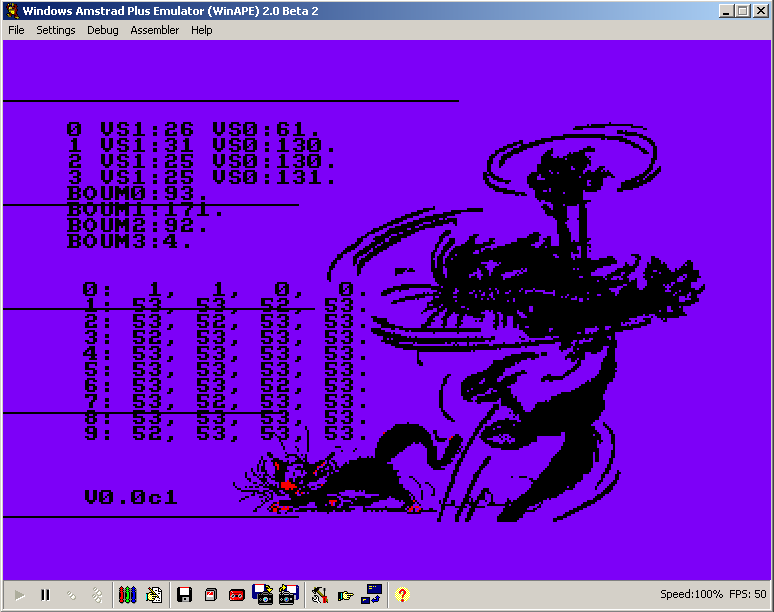
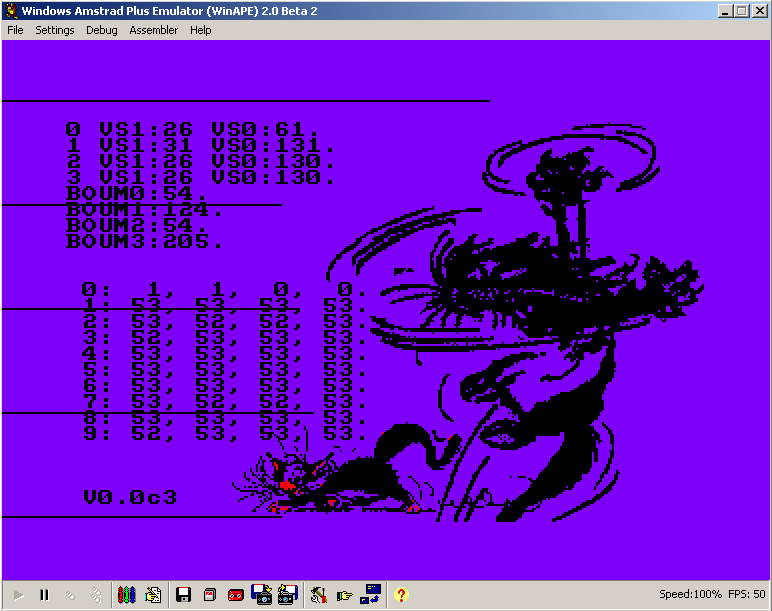
precision vsync()

diff --git a/JDVPA#6_test/moustache.c b/JDVPA#6_test/moustache.c
@@ -130,6 +130,7 @@ void test_vsync() {
 	nb_vsync1[3]=0;
 	nb_vsync0[3]=0;
 	nb_vsync0_boum[3]=0;
+	while (get_vsync()==1) {}
 	vsync();
 //;moustache.c:94: while (get_vsync()==1) {
 //;5	20T		call nn			call	_get_vsync
@@ -202,6 +203,7 @@ void test_vsync() {
 //;3	12T	jr e			jr	00156$
 //donc : 20-19NOPs	76us-72us
 	nb_vsync0[0]=nb_vsync0[0]-1-2;
+	while (get_vsync()==1) {}
 	vsync();
 	for (j=0;j<nb_vsync1[0];j++) {
 		// 40 NOPs FIXME set_hsyncMinus1() à chronométrer aussi par là.
@@ -566,12 +568,14 @@ void test_int() {
 	//si INT nb>10, stopper.
 	no_int=0;
 	count_int[0]=0;
+	while (get_vsync()==1) {}
 	vsync();
 	handle_raster(callback_roulette);
 	raster();
 	while (no_int<10) {
 		count_int[no_int]++;
 	}
+	while (get_vsync()==1) {}
 	vsync();
 	no_int=10;
 	handle_raster(callback_rouletteNOP);
@@ -579,6 +583,7 @@ void test_int() {
 	while (no_int<20) {
 		count_int[no_int]++;
 	}
+	while (get_vsync()==1) {}
 	vsync();
 	no_int=20;
 	handle_raster(callback_rouletteNOPNOP);
@@ -586,6 +591,7 @@ void test_int() {
 	while (no_int<30) {
 		count_int[no_int]++;
 	}
+	while (get_vsync()==1) {}
 	vsync();
 	no_int=30;
 	handle_raster(callback_rouletteNOPNOPNOP);
@@ -593,6 +599,7 @@ void test_int() {
 	while (no_int<40) {
 		count_int[no_int]++;
 	}
+	while (get_vsync()==1) {}
 	vsync();
 	printf("            \r\n");
 	printf("            \r\n");
@@ -652,6 +659,7 @@ void test_palette() {
 	bank0123();
 	put_frame_transparent((unsigned char *)(0xC000 + vram[148]+20),40,48,0x7800);
 	//3) raster palette
+	while (get_vsync()==1) {}
 	vsync();
 	handle_raster(callback_roulette2);
 	raster();
@@ -668,7 +676,7 @@ void main() {
 	LoadFile("chat3.scr", (char *)0x7800);
 	test_vsync();
 	test_int();
-	printf("\r\n\r\n\r\n V0.0c2");
+	printf("\r\n\r\n\r\n V0.0c3");
 	test_palette();
 	while(1) {} // keyboard scan does perturbate raster palette, so no keyb by here :p
 }
